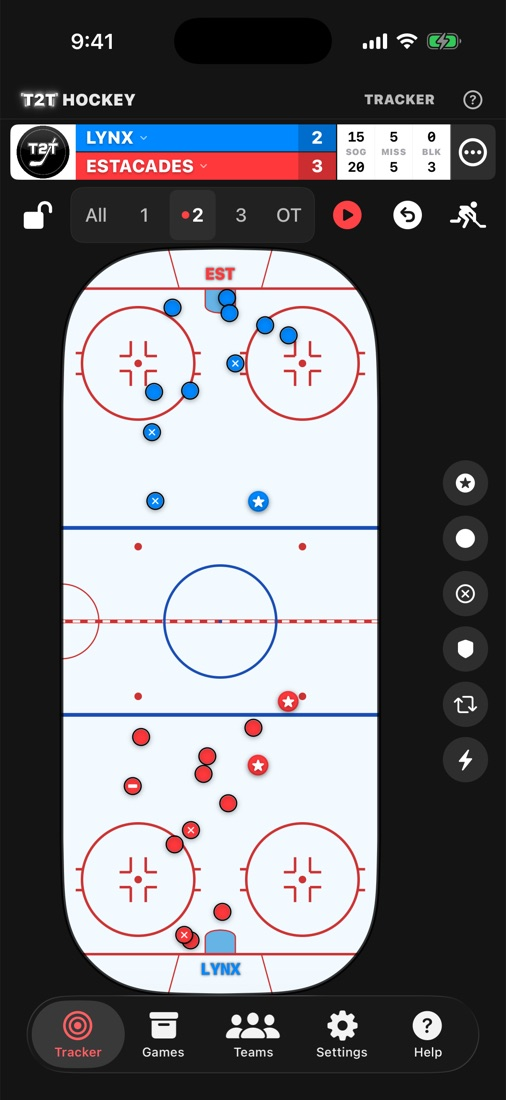
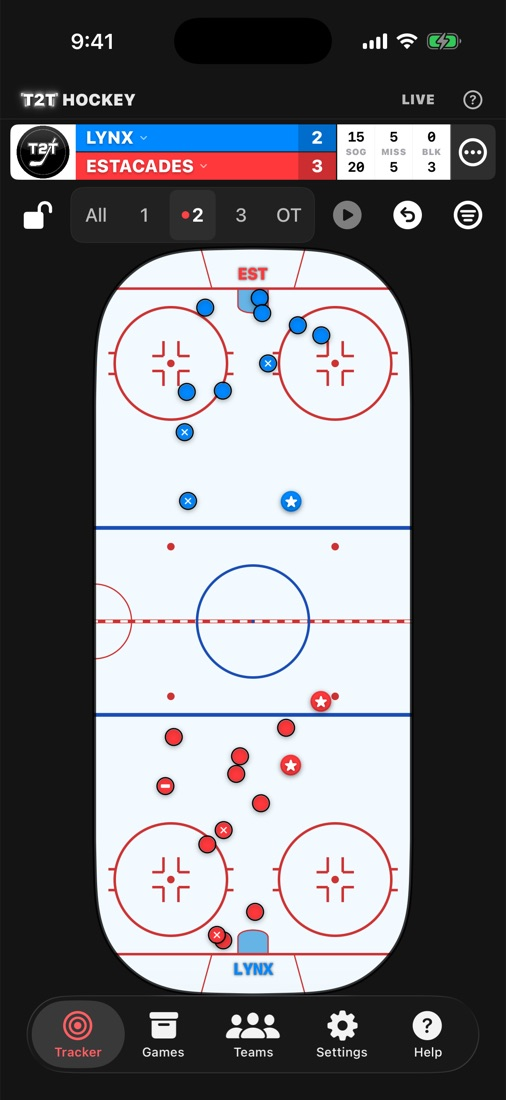
Écran Patinoire, nouvelle capture, partage en un toucher, guide des gestes, matchs conservés en version gratuite

diff --git a/fr/index.html b/fr/index.html
@@ -45,20 +45,20 @@
         </div>
         <div class="hero-visual">
           <img class="phone back" src="../assets/screens/fr-season.jpg" alt="Analyse de saison avec la fiche, la séquence et les moyennes par match">
-          <img class="phone front" src="../assets/screens/fr-tracker.jpg" alt="L'écran En direct : une patinoire avec les tirs et les buts des deux équipes">
+          <img class="phone front" src="../assets/screens/fr-tracker.jpg" alt="L'écran Patinoire : les tirs et les buts des deux équipes sur la glace">
         </div>
       </div>
 
       <section>
         <h2>Pensée pour les gradins et le banc</h2>
-        <p class="section-lead">Aucune configuration compliquée. Ouvrez l'app, choisissez vos équipes et touchez la glace.</p>
+        <p class="section-lead">Aucune configuration compliquée. Dites à l'app quelle équipe vous suivez : à chaque match, touchez l'adversaire, puis la glace.</p>
         <div class="features">
-          <div class="feature"><div class="icon" aria-hidden="true">🎯</div><h3>Un geste par événement</h3><p>Touchez pour un tir, deux fois pour un but, glissez pour les tirs ratés et bloqués, dégagements refusés, hors-jeu, revirements et mises au jeu, appui long pour une mise en échec. Le pointage se met à jour en direct.</p></div>
+          <div class="feature"><div class="icon" aria-hidden="true">🎯</div><h3>Un geste par événement</h3><p>Touchez pour un tir, deux fois pour un but, glissez pour les tirs ratés et bloqués, dégagements refusés, hors-jeu, revirements et mises au jeu, appui long pour une mise en échec. Pendant vos premiers matchs, un bandeau vous enseigne les gestes un à un.</p></div>
           <div class="feature"><div class="icon" aria-hidden="true">↩</div><h3>Corrigez tout, en tout temps</h3><p>Parcourez chaque événement sur une ligne du temps : modifiez-le, supprimez-le ou glissez-le au bon endroit sur la glace. Fini les « annuler, annuler, annuler ».</p></div>
           <div class="feature"><div class="icon" aria-hidden="true">⏱</div><h3>Comme un vrai match</h3><p>Changement de côté à chaque période, prolongation comme dans la LNH et tirs de barrage au besoin. L'app vous demande si le match est terminé au bon moment.</p></div>
           <div class="feature"><div class="icon" aria-hidden="true">📋</div><h3>Résumé de match instantané</h3><p>Un tableau indicateur avec les logos des équipes, le sommaire des buts et les statistiques face à face par période, avec la patinoire de tous les tirs. Partagez un rapport PDF en quelques secondes.</p></div>
           <div class="feature"><div class="icon" aria-hidden="true">📸</div><h3>Images pour les réseaux sociaux</h3><p>Express (le pointage et la patinoire) ou Détaillé (avec graphiques) : copiez l'image et collez-la dans Facebook, Instagram ou Messenger.</p></div>
-          <div class="feature"><div class="icon" aria-hidden="true">🤝</div><h3>Partagez l'équipe</h3><p>Invitez un autre parent ou l'entraîneur avec iCloud, comme marqueur ou en lecture seule. Suivez le match en direct des gradins ou de la maison, prenez le relais en 2e période et recevez une alerte à chaque but.</p></div>
+          <div class="feature"><div class="icon" aria-hidden="true">🤝</div><h3>Partagez l'équipe</h3><p>Touchez « Inviter un marqueur » ou « Inviter un spectateur » et envoyez le lien par Messages. L'invité voit son rôle et le prochain match. Suivez le match en direct des gradins ou de la maison, prenez le relais en 2e période et recevez une alerte à chaque but.</p></div>
           <div class="feature"><div class="icon" aria-hidden="true">📈</div><h3>Analyse de saison</h3><p>Tendances match après match, à domicile et à l'étranger, patinoire des tirs de la saison et fiches face à face contre chaque adversaire.</p></div>
           <div class="feature"><div class="icon" aria-hidden="true">🏒</div><h3>Clubs, ligues et tournois</h3><p>Des équipes par club, catégorie et division, avec leur logo et leur couleur. Regroupez les matchs par saison de ligue ou par tournoi, avec une fiche pour chacun, séries et hors-concours compris.</p></div>
           <div class="feature"><div class="icon" aria-hidden="true">🔒</div><h3>Privé et bilingue</h3><p>Aucun compte, aucun pistage, aucune publicité. Vos données restent sur votre iPhone, et dans votre propre iCloud seulement pour les équipes que vous choisissez de synchroniser ou de partager. En français ou en anglais, avec une sauvegarde complète à exporter en tout temps.</p></div>
@@ -69,7 +69,7 @@
         <h2>En images</h2>
         <p class="section-lead">Du premier geste à la fin de la saison.</p>
         <div class="gallery">
-          <figure><img class="phone" src="../assets/screens/fr-tracker.jpg" alt="Écran En direct"><figcaption>En direct sur la patinoire</figcaption></figure>
+          <figure><img class="phone" src="../assets/screens/fr-tracker.jpg" alt="Écran Patinoire"><figcaption>En direct sur la patinoire</figcaption></figure>
           <figure><img class="phone" src="../assets/screens/fr-summary.jpg" alt="Résumé du match avec le tableau indicateur, le sommaire des buts et les statistiques"><figcaption>Résumé et statistiques du match</figcaption></figure>
           <figure><img class="phone" src="../assets/screens/fr-social.jpg" alt="Image pour les réseaux sociaux avec le pointage et la patinoire"><figcaption>Une image du match à partager</figcaption></figure>
           <figure><img class="phone" src="../assets/screens/fr-competition.jpg" alt="Une saison de ligue avec sa fiche et ses matchs"><figcaption>Ligues et tournois</figcaption></figure>
@@ -90,7 +90,7 @@
               <li>Résumé du match et statistiques avancées</li>
               <li>2 rapports PDF par mois</li>
               <li>Images pour les réseaux sociaux (« Présenté par T2T Hockey »)</li>
-              <li>Un match à la fois</li>
+              <li>Un match à la fois (les autres restent conservés)</li>
             </ul>
           </div>
           <div class="plan premium">

diff --git a/index.html b/index.html
@@ -45,20 +45,20 @@
         </div>
         <div class="hero-visual">
           <img class="phone back" src="assets/screens/en-season.jpg" alt="Season analysis with record, streak and per-game averages">
-          <img class="phone front" src="assets/screens/en-tracker.jpg" alt="The live tracker: a hockey rink with shots and goals marked for both teams">
+          <img class="phone front" src="assets/screens/en-tracker.jpg" alt="The Tracker: shots and goals of both teams on the ice">
         </div>
       </div>
 
       <section>
         <h2>Built for the stands and the bench</h2>
-        <p class="section-lead">No complicated setup. Open the app, pick your teams and tap the ice.</p>
+        <p class="section-lead">No complicated setup. Tell the app which team you follow: for each game, tap the opponent, then the ice.</p>
         <div class="features">
-          <div class="feature"><div class="icon" aria-hidden="true">🎯</div><h3>One gesture per event</h3><p>Tap for a shot, double tap for a goal, drag for missed and blocked shots, icings, offsides, turnovers and faceoffs, long press for a hit. The score updates live.</p></div>
+          <div class="feature"><div class="icon" aria-hidden="true">🎯</div><h3>One gesture per event</h3><p>Tap for a shot, double tap for a goal, drag for missed and blocked shots, icings, offsides, turnovers and faceoffs, long press for a hit. During your first games, a band teaches you the gestures one at a time.</p></div>
           <div class="feature"><div class="icon" aria-hidden="true">↩</div><h3>Fix anything, anytime</h3><p>Browse every event on a timeline: edit it, delete it or drag it to the right spot on the ice. No more “undo, undo, undo”.</p></div>
           <div class="feature"><div class="icon" aria-hidden="true">⏱</div><h3>Just like a real game</h3><p>Teams switch ends every period, NHL-style overtime and a shootout when needed. The app asks if the game is over at the right time.</p></div>
           <div class="feature"><div class="icon" aria-hidden="true">📋</div><h3>Instant game summary</h3><p>A scoreboard with the team logos, the scoring summary and head-to-head game stats by period, plus a rink map of every shot. Share a PDF report in seconds.</p></div>
           <div class="feature"><div class="icon" aria-hidden="true">📸</div><h3>Images for social media</h3><p>Express (the score and the rink) or Detailed (with charts): copy the image and paste it in Facebook, Instagram or Messenger.</p></div>
-          <div class="feature"><div class="icon" aria-hidden="true">🤝</div><h3>Share the team</h3><p>Invite another parent or the coach with iCloud, as a scorer or a viewer. Follow the game live from the stands or from home, take over in the 2nd period, and get an alert for each goal.</p></div>
+          <div class="feature"><div class="icon" aria-hidden="true">🤝</div><h3>Share the team</h3><p>Tap “Invite a Scorer” or “Invite a Viewer” and send the link by Messages. The person invited sees their role and the next game. Follow the game live from the stands or from home, take over in the 2nd period, and get an alert for each goal.</p></div>
           <div class="feature"><div class="icon" aria-hidden="true">📈</div><h3>Season analysis</h3><p>Trends game after game, home and road splits, a season shot map and head-to-head records against every opponent.</p></div>
           <div class="feature"><div class="icon" aria-hidden="true">🏒</div><h3>Clubs, leagues and tournaments</h3><p>Teams by club, category and division, with their logo and color. Group the games by league season or tournament, with a record for each, playoffs and exhibition games included.</p></div>
           <div class="feature"><div class="icon" aria-hidden="true">🔒</div><h3>Private and bilingual</h3><p>No account, no tracking, no ads. Your data stays on your iPhone, and in your own iCloud only for the teams you choose to sync or share. In English or French, with a full backup you can export anytime.</p></div>
@@ -90,7 +90,7 @@
               <li>Game summary and advanced stats</li>
               <li>2 PDF reports per month</li>
               <li>Images for social media (“Presented by T2T Hockey”)</li>
-              <li>One game at a time</li>
+              <li>One game at a time (the others are kept)</li>
             </ul>
           </div>
           <div class="plan premium">
